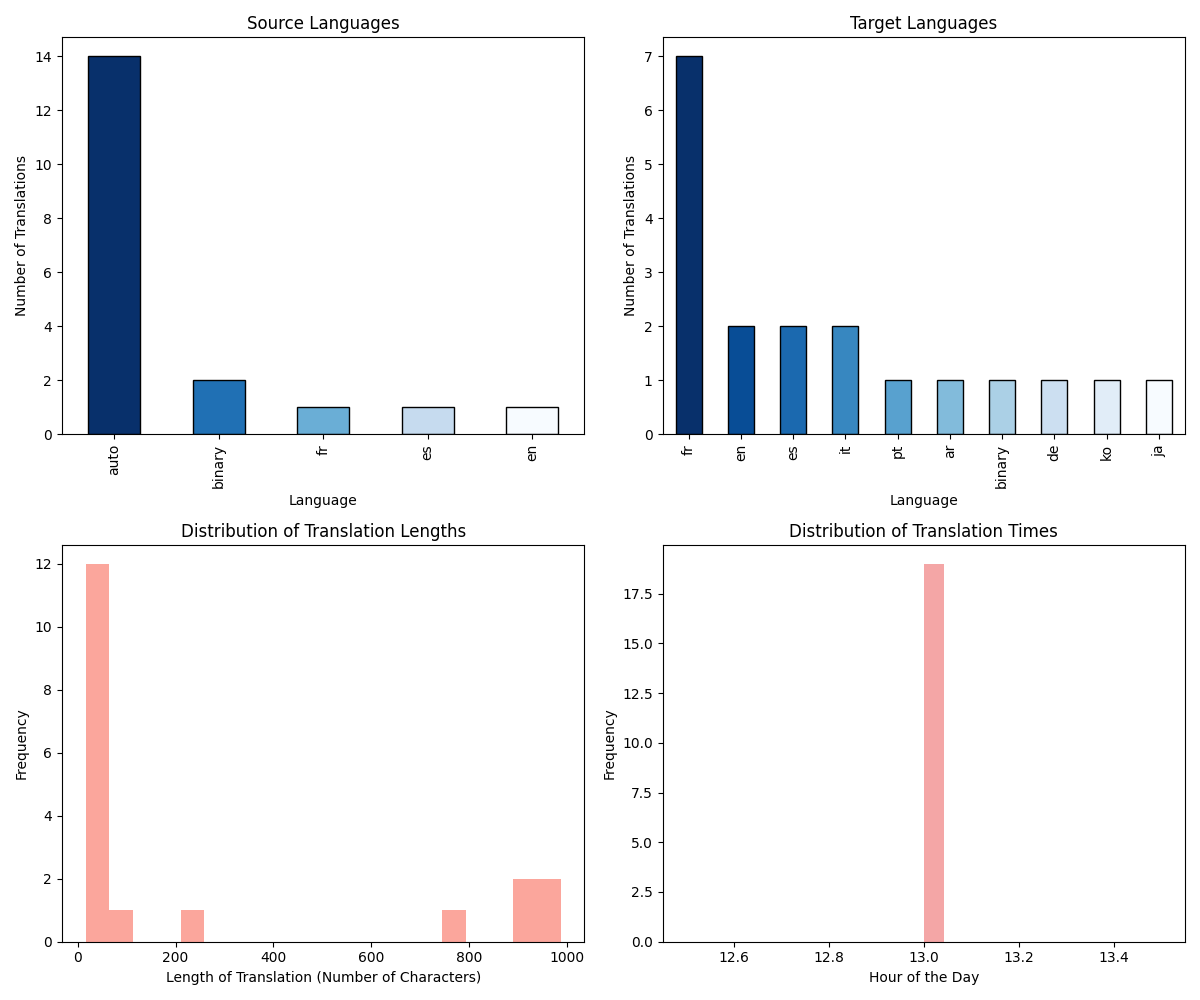
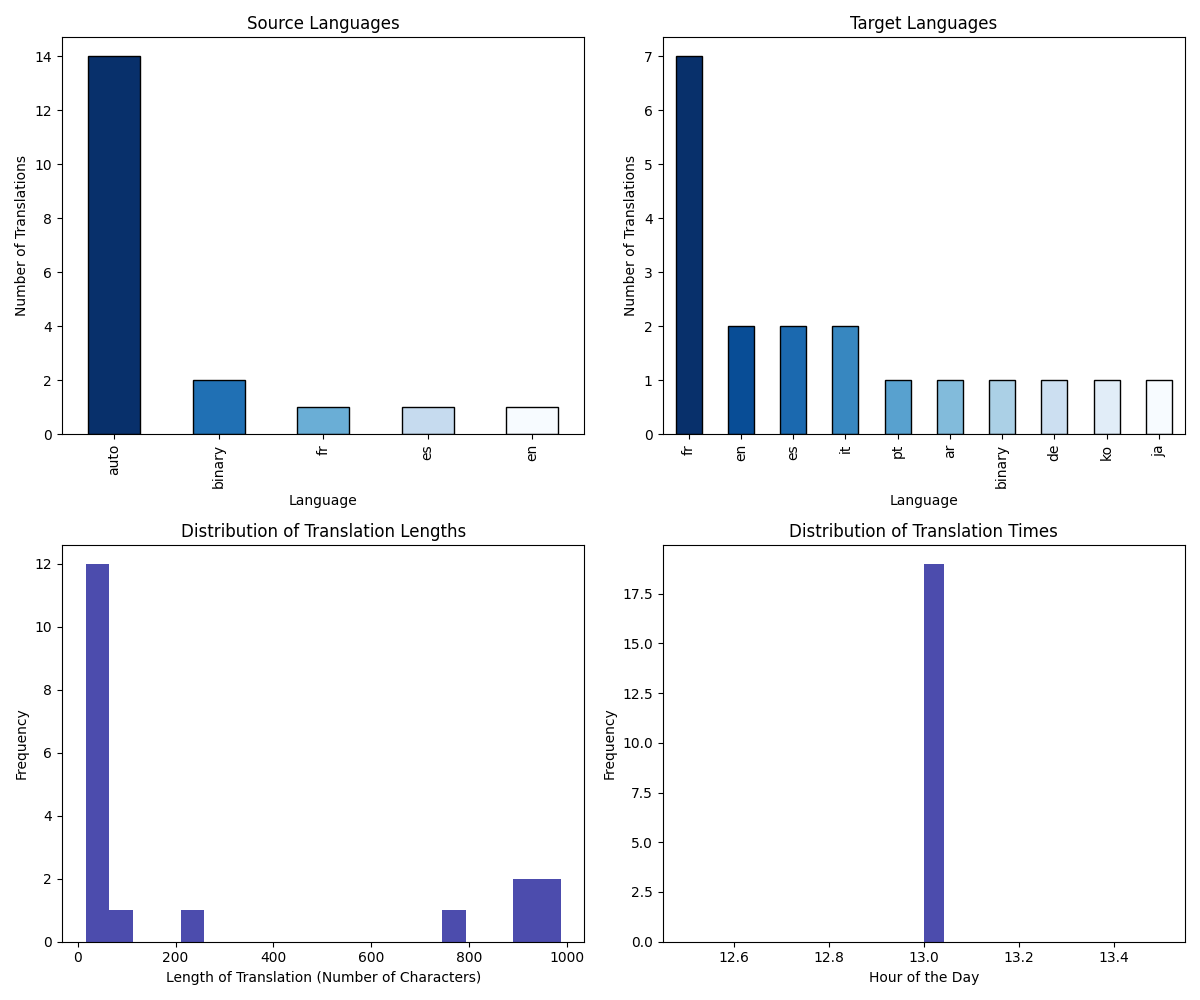
update readme

diff --git a/app/static/style.css b/app/static/style.css
@@ -4,7 +4,7 @@ body {
     align-items: center;
     margin: 0;
     padding: 0;
-    font-family: Arial, sans-serif;
+    font-family: 'Roboto', Arial, sans-serif;
     color: rgb(23, 23, 100);
 }
 

diff --git a/analytics/analysis.py b/analytics/analysis.py
@@ -56,13 +56,13 @@ def analyze_translations(directory):
     plt.ylabel('Number of Translations')
 
     plt.subplot(2, 2, 3)
-    plt.hist(translation_lengths, bins=20, color='salmon', alpha=0.7)
+    plt.hist(translation_lengths, bins=20, color='darkblue', alpha=0.7)
     plt.title('Distribution of Translation Lengths')
     plt.xlabel('Length of Translation (Number of Characters)')
     plt.ylabel('Frequency')
 
     plt.subplot(2, 2, 4)
-    plt.hist(translation_times, bins=24, color='lightcoral', alpha=0.7)
+    plt.hist(translation_times, bins=24, color='darkblue', alpha=0.7)
     plt.title('Distribution of Translation Times')
     plt.xlabel('Hour of the Day')
     plt.ylabel('Frequency')

diff --git a/README.md b/README.md
@@ -1,66 +1,63 @@
-App structure :
+# Lingua-Franca
 
-lingua-franca/ 
-│
-├── app/
-│   ├── __init__.py
-│   ├── routes.py           
-│   ├── static/
-│   │   ├── style.css
-│   │   └── analytics/       
-│   │       └── analysis.py  
-│   └── templates/
-│       ├── index.html       
-│       └── analytics.html  
-├── data/
-│   └── history.csv
-│
-├── translator/
-│   ├── __init__.py
-│   └── google_translate.py
-│
-├── .gitignore
-├── README.md
-└── requirements.txt
+This repository contains the Lingua-Franca project, a language translation application using an API with the ability to analyze translation history data.
 
-# lingua-franca
-Translator Flask app using Google Translate API
+## Directory Structure
 
-## Table of content
-- [lingua-franca](#lingua-franca)
-  - [Table of content](#table-of-content)
-  - [Getting started](#getting-started)
-    - [Install](#install)
-    - [Use](#use)
-  - [Project files](#project-files)
+- **analytics/**: Contains the files related to data analysis.
+  - `analysis.py`: Python script for analyzing translation data.
+  - `__pycache__/`: Cache directory for Python bytecode (automatically generated).
 
-## Getting started
+- **app/**: Contains the main application files.
+  - `__init__.py`: Initialization script for the Flask application.
+  - `routes.py`: Defines the URL routes and request handling logic.
+  - **static/**: Contains static files for the Flask application.
+    - `style.css`: CSS file for styling HTML templates.
+  - **templates/**: Contains HTML templates for the Flask application.
+    - `analytics.html`: HTML template for displaying analytics results.
+    - `index.html`: HTML template for the main application interface.
+
+- **data/**: Contains data files generated and used by the application.
+  - `translation_analysis.png`: Image file for visualizing translation analysis.
+  - `translation_stats.txt`: Text file containing statistics from translation analysis.
+  - `translation_history.csv`: CSV file storing the history of translations.
+
+- **translator/**: Contains files related to the translation functionality.
+  - `__init__.py`: Initialization script for the translator module.
+  - `google_translate.py`: Python script for Google Translation API integration.
+  - `__pycache__/`: Cache directory for Python bytecode (automatically generated).
+
+- **README.md**: This file, containing information about the project and its structure.
+- **requirements.txt**: File listing the Python dependencies required to run the project.
+- **.gitignore**: File specifying which files and directories to ignore in version control.
+
+
+## Getting Started
+
+To get started with Lingua-Franca, follow the installation instructions below and then learn how to use the application.
+
 ### Install
-<!-- a faire -->
-### Use
-<!-- à faire -->
 
-## Project files
-- **README.md** : Project details (this file)
+1. Clone this repository to your local machine.
+   ```bash
+   git clone https://github.com/pierre-mazard/LINGUA-FRANCA.git
 
-- **.gitignore** : Files ignored by Git
+2. Navigate into the project directory.
+    ```bash
+    cd Lingua-Franca
 
-- **requirements.txt** : Project dependencies
+3. Instal the required Python dependencies using pip.
+    ```bash
+    pip install -r requirements.txt
 
-- **analytics/** : Bash scripts
-    - **analysis.py** : Transform data
-        - Into visual graphs
-        - Into a text format
-- **app/** : Source files
-    - **static/** : Static files dirs
-        - **style.css** : Project style
-    - **templates/** : Contain HTML templates
-        - **index.html** : The interface
-    - **routes.py** : Tell where the file should be stored
-- **data/** : Data storage 
-    - **history.csv** : cvs file where the data is stored
-    - **translation_analysis.png** : png of the multiple graphs based on the data collected
-    - **translation_stats.txt** : Text file based on the data collected
-    - **translation.py** : Contain functions to connect to the translation API
-- **translator/** : This is where the translation happens
-    - **google_translate.py** : Detect the language, translate the text
+## Use
+
+1. After installing dependencies, start the Flask application.
+    ```bash
+    flask run
+
+2. Open your web browser and navigate to http://localhost:5000 to access the Lingue-Franca application.
+
+3. Enter the text you want to translate, select the source and target languages, and click "Translate".
+
+4. View the translated text and explore the application's features, including translation history and analytics.
